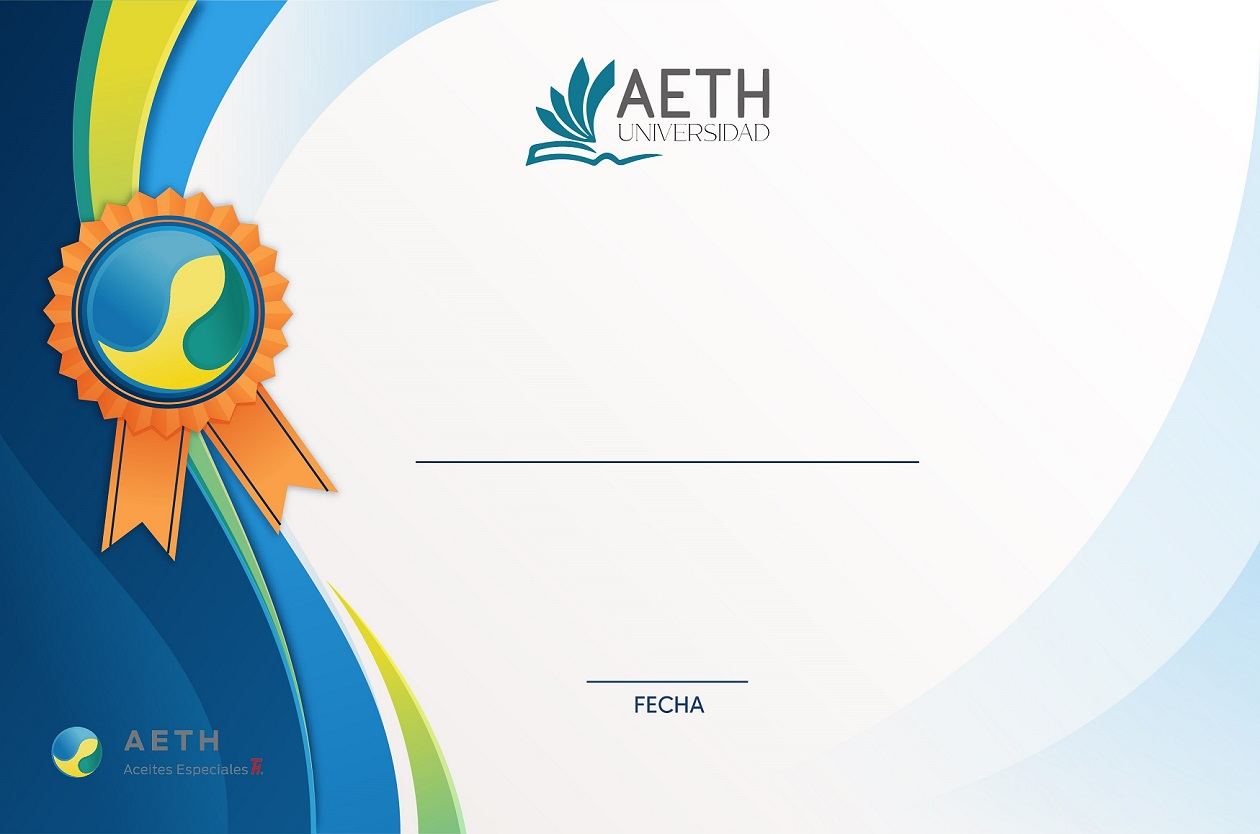
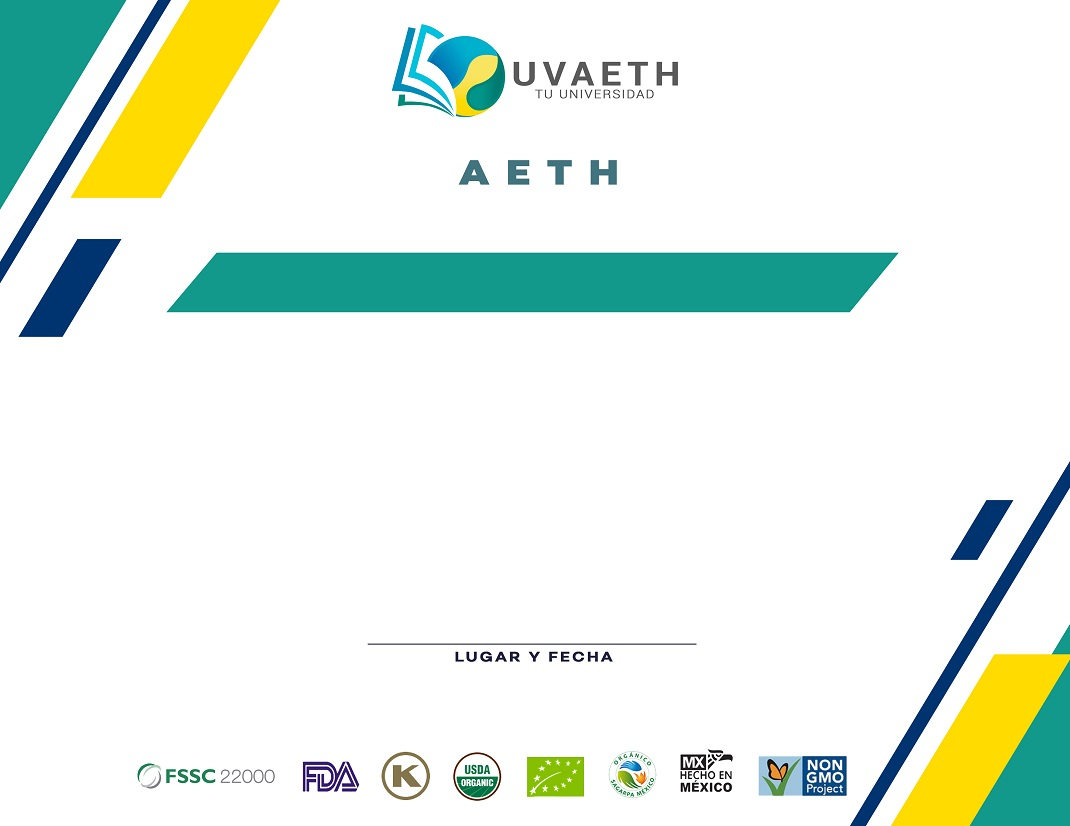
Cambios para relanzamiento

diff --git a/public/myapp/js/uni/exam/VueExam.js b/public/myapp/js/uni/exam/VueExam.js
@@ -108,7 +108,9 @@ var app = new Vue({
                     let route = "";
                     if (res.isApproved) {
                         if (res.oCompleted.course) {
-                            SGui.showSuccess("¡Felicidades!\n Aprobaste el curso.", "Ganaste: " + res.oCompleted.points + " puntos.", 'success', this.oData.sImageRoute);
+                            SGui.showSuccess("¡Felicidades!\n Aprobaste el curso.",
+                                res.oCompleted.has_points ? ("Ganaste: " + res.oCompleted.points + " puntos.") : "",
+                                'success', this.oData.sImageRoute);
                         } else {
                             SGui.showSuccess("¡Felicidades!\n Aprobaste.", "Calificación: " + res.grade, 'success', this.oData.sImageRoute);
                         }

diff --git a/public/myapp/css/certificates/certificate.css b/public/myapp/css/certificates/certificate.css
@@ -1,5 +1,7 @@
 body {
     background-image: url('img/background.jpg');
+    font-family: Century Gothic, CenturyGothic, AppleGothic, sans-serif;
+    font: 12px/1.4em "Century Gothic", "AppleGothic", sans-serif;
     /* height: 50%; */
     /* You must set a specified height */
     /* background-position: center; */
@@ -12,5 +14,21 @@ body {
 
 .alg-center {
     text-align: center;
-    margin-left: 30%;
+    /* margin-left: 5%; */
+}
+
+.big-with-back {
+    font-size: 55px;
+    color: #fff;
+    text-shadow: 0 0 10px #000;
+    margin-top: 42px;
+    margin-bottom: 20px;
+}
+
+.text-blueblack {
+    color: #0465B2;
+}
+
+.text-green {
+    color: #12988B;
 }

diff --git a/resources/views/uni/courses/course.blade.php b/resources/views/uni/courses/course.blade.php
@@ -43,40 +43,43 @@
                     </div>
                     <div class="row" style="background-color: #1173B0; border-radius: 15%">
                         <div class="col-4" style="text-align: center">
-                            <i class='bx bxs-graduation bx-flashing'></i>
+                            <i class='bx bxs-graduation'></i>
                         </div>
                         <div class="col-8">
                             <b>80 Calificación mín.</b>
                         </div>
                     </div>
-                    <div class="row" style="background-color: #1173B0; border-radius: 15%">
-                        <div class="col-4" style="text-align: center">
-                            <i class='bx bxs-coin bx-flashing'></i>
+                    @if ($oCourse->has_points)
+                        <div class="row" style="background-color: #1173B0; border-radius: 15%">
+                            <div class="col-4" style="text-align: center">
+                                <i class='bx bxs-coin'></i>
+                            </div>
+                            <div class="col-8">
+                                <b>Puedes ganar {{ $oCourse->university_points }} puntos universitarios</b>
+                            </div>
                         </div>
-                        <div class="col-8">
-                            <b>Puedes ganar {{ $oCourse->university_points }} puntos universitarios</b>
-                        </div>
-                    </div>
+                    @endif
                     @if ($aGrade[0])
                         <br>
-                        <a href="{{ route('certificate', [config('csys.elem_type.COURSE'), $oCourse->id_course, $oCourse->id_assignment]) }}" target="_blank">
-                            <div class="row" style="background-color: #F3D62D; color: black; border-radius: 15%">
-                                <div class="col-4" style="text-align: center">
-                                    <br>
-                                    <i class='bx bxs-file-doc bx-md bx-flashing'></i>
+                        @if ($oCourse->has_document)
+                            <a href="{{ route('certificate', [config('csys.elem_type.COURSE'), $oCourse->id_course, $oCourse->id_assignment]) }}" target="_blank">
+                                <div class="row" style="background-color: #F3D62D; color: black; border-radius: 15%">
+                                    <div class="col-4" style="text-align: center">
+                                        <i class='bx bxs-file-doc bx-md bx-flashing'></i>
+                                    </div>
+                                    <div class="col-8">
+                                        <b>¡Aprobaste el curso!</b>
+                                        <p>Descarga tu constancia</p>
+                                    </div>
                                 </div>
-                                <div class="col-8">
-                                    <b>¡Aprobaste el curso!</b>
-                                    <p>Descarga tu constancia</p>
-                                </div>
-                            </div>
-                        </a>
+                            </a>
+                        @endif
                         @if ($enableReview)
                             <br>
                             <div class="row align-items-center">
                                 <div class="col-12">
                                     <button type="button" style="width: 100%" class="btn btn-info" data-bs-toggle="modal" data-bs-target="#reviewsModal">
-                                        Evalúa el curso<span><i class='bx bxs-message-rounded-dots'></i></span>
+                                        Evalúa el curso<span><i class='bx bxs-message-rounded-dots bx-sm bx-flashing'></i></span>
                                     </button>
                                 </div>
                             </div>

diff --git a/app/Menu/Menu.php b/app/Menu/Menu.php
@@ -18,7 +18,7 @@ class Menu {
                     (object) ['route' => route('kardex.index'), 'icon' => 'bx bxs-graduation', 'name' => 'Mi avance'],
                     (object) ['route' => route('areas.index'), 'icon' => 'bx bx-library', 'name' => 'Mis competencias'],
                     (object) ['route' => route('kardex.head'), 'icon' => 'bx bxs-school', 'name' => 'Avance general'],
-                    (object) ['route' => route('shop'), 'icon' => 'bx bxs-store', 'name' => 'Tienda'],
+                    env('IS_STORE_ENABLED') ? ((object) ['route' => route('shop'), 'icon' => 'bx bxs-store', 'name' => 'Tienda']) : null,
                 ];
                 break;
 
@@ -48,7 +48,7 @@ class Menu {
                     (object) ['route' => route('assignments.index'), 'icon' => 'bx bxs-user-detail', 'name' => 'Asignar competencias'],
                     (object) ['route' => route('assignments.scheduled.index'), 'icon' => 'bx bxs-calendar-event', 'name' => 'Competencias programadas'],
                     (object) ['route' => route('kardex.head'), 'icon' => 'bx bxs-school', 'name' => 'Avance general'],
-                    (object) ['route' => route('shop'), 'icon' => 'bx bxs-store', 'name' => 'Tienda'],
+                    env('IS_STORE_ENABLED') ? ((object) ['route' => route('shop'), 'icon' => 'bx bxs-store', 'name' => 'Tienda']) : null,
                     (object) ['route' => route('gifts.index'), 'icon' => 'bx bxs-cabinet', 'name' => 'Gestión premios'],
                     (object) ['route' => route('points.index'), 'icon' => 'bx bx-money', 'name' => 'Ctrl Puntos'],
                     (object) ['route' => route('carousel.index'), 'icon' => 'bx bx-images', 'name' => 'Carrusel'],
@@ -66,7 +66,7 @@ class Menu {
                     (object) ['route' => route('assignments.index'), 'icon' => 'bx bxs-user-detail', 'name' => 'Asignar competencias'],
                     (object) ['route' => route('assignments.scheduled.index'), 'icon' => 'bx bxs-calendar-event', 'name' => 'Competencias programadas'],
                     (object) ['route' => route('kardex.head'), 'icon' => 'bx bxs-school', 'name' => 'Avance general'],
-                    (object) ['route' => route('shop'), 'icon' => 'bx bxs-store', 'name' => 'Tienda'],
+                    env('IS_STORE_ENABLED') ? ((object) ['route' => route('shop'), 'icon' => 'bx bxs-store', 'name' => 'Tienda']) : null,
                     (object) ['route' => route('gifts.index'), 'icon' => 'bx bxs-cabinet', 'name' => 'Gestión premios'],
                     (object) ['route' => route('points.index'), 'icon' => 'bx bx-money', 'name' => 'Ctrl Puntos'],
                     (object) ['route' => route('carousel.index'), 'icon' => 'bx bx-images', 'name' => 'Carrusel'],
@@ -81,6 +81,9 @@ class Menu {
 
         $sMenu = "";
         foreach ($lMenus as $menu) {
+            if ($menu == null) {
+                continue;
+            }
             $sMenu = $sMenu.Menu::createMenuElement($menu->route, $menu->icon, $menu->name);
         }
 

diff --git a/app/Http/Controllers/Uni/CertificatesController.php b/app/Http/Controllers/Uni/CertificatesController.php
@@ -76,27 +76,27 @@ class CertificatesController extends Controller
         $mpdf->SetTitle(env('APP_NAME', false));
         $mpdf->WriteHTML($stylesheet, \Mpdf\HTMLParserMode::HEADER_CSS);
         $mpdf->WriteHTML('<div style="height: 130px"></div>');
-        $mpdf->WriteHTML('<h4 class="alg-center">Otorga '.$art.' presente:</h4>');
+        $mpdf->WriteHTML('<h4 style="font-size: 20px;" class="alg-center text-blueblack">Otorga '.$art.' presente:</h4>');
         // $mpdf->WriteHTML('<div style="height: 10px"></div>');
-        $mpdf->WriteHTML('<h1 style="font-size: 50px" class="alg-center">'.$sDocText.'</h1>');
-        $mpdf->WriteHTML('<h4 class="alg-center">a</h4>');
+        $mpdf->WriteHTML('<h1 class="alg-center big-with-back">'.$sDocText.'</h1>');
+        $mpdf->WriteHTML('<div style="height: 5px"></div>');
+        $mpdf->WriteHTML('<h4 style="font-size: 20px; margin-bottom: 10px;" class="alg-center text-blueblack">a</h4>');
 
         // $mpdf->WriteHTML('<div align="center"><img src="img/tron2.png" alt="AETH"><div>');
 
+        $mpdf->WriteHTML('<div style="height: 5px"></div>');
         $oStudent = User::find($student);
-        $mpdf->WriteHTML('<div style="height: 15px"></div>');
-        $body = '<h2 class="alg-center">'.$oStudent->full_name.'</h2>';
+        $body = '<h2 style="font-size: 35px;" class="alg-center text-green">'.$oStudent->full_name.'</h2>';
         $mpdf->WriteHTML($body);
         
         $mpdf->WriteHTML('<br>');
-        $mpdf->WriteHTML('<h4 class="alg-center">Por haber cursado el</h4>');
-        $mpdf->WriteHTML('<h4 class="alg-center">'.$sTypeText.'</h4>');
-        $mpdf->WriteHTML('<h3 class="alg-center">'.$title.'</h3>');
+        $mpdf->WriteHTML('<h4 style="font-size: 20px;" class="alg-center text-blueblack">Por haber cursado el '.$sTypeText.'</h4>');
+        $mpdf->WriteHTML('<h3 style="font-size: 40px;" class="alg-center text-blueblack">'.$title.'</h3>');
 
-        $mpdf->WriteHTML('<div style="height: 20px"></div>');
         $oDateIni = Carbon::parse($oAssignment->dt_assignment);
+        $oDateIni->locale();
         $oDateFin = Carbon::parse($oAssignment->dt_end);
-        $mpdf->WriteHTML('<h5 class="alg-center">'.$oDateIni->format('d-m-Y').' al '.$oDateFin->format('d-m-Y').'</h5>');
+        $mpdf->WriteHTML('<h5 style="font-size: 20px; margin-top: 60px" class="alg-center text-blueblack">Morelia Michoacán, '.$oDateIni->monthName.' '.$oDateIni->format('Y').'</h5>');
 
         $date = Carbon::now();
 
@@ -104,7 +104,7 @@ class CertificatesController extends Controller
 
         QrCode::size(50)->generate($key, 'img/j.png');
 
-        $qr = '<div style="position: absolute; left: 900; right: 0; top: 650; bottom: 0;">
+        $qr = '<div style="position: absolute; left: 50; right: 0; top: 600; bottom: 70;">
                     <img src="img/j.png" 
                         style="width: 90%; height: 90%; margin: 0;" />
                 </div>';

diff --git a/resources/views/mgr/courses/form.blade.php b/resources/views/mgr/courses/form.blade.php
@@ -4,7 +4,7 @@
     <input type="text" value="{{ old('course', $oCourse->course ?? '') }}" class="form-control" id="course" name="course">
 </div>
 <div class="row">
-    <div class="col-8">
+    <div class="col-4">
         <div class="mb-3">
             <label for="course_key" class="form-label">Clave del curso</label>
             <input type="text" value="{{ old('course_key', $oCourse->course_key ?? '') }}" class="form-control" id="course_key" name="course_key">
@@ -14,6 +14,24 @@
         <div class="mb-3">
             <label for="completion_days" class="form-label">Duración (días)</label>
             <input type="number" value="{{ old('completion_days', $oCourse->completion_days ?? '') }}" class="form-control" id="completion_days" name="completion_days">
+        </div>
+    </div>
+    <div class="col-2">
+        <br>
+        <div class="mb-3">
+            <label class="form-check-label">
+              <input type="checkbox" class="form-check-input" name="has_document"  {{ (isset($oCourse) && $oCourse->has_document) || !isset($oCourse) ? 'checked' : '' }}>
+                Genera constancia
+            </label>
+        </div>
+    </div>
+    <div class="col-2">
+        <br>
+        <div class="mb-3">
+            <label class="form-check-label">
+              <input type="checkbox" class="form-check-input" name="has_points" {{ (isset($oCourse) && $oCourse->has_points) || !isset($oCourse) ? 'checked' : '' }}>
+              Genera puntos
+            </label>
         </div>
     </div>
     <div class="col-2">

diff --git a/database/migrations/2022_03_29_111346_add_has_certandpoints_courses_table.php b/database/migrations/2022_03_29_111346_add_has_certandpoints_courses_table.php
@@ -1,0 +1,46 @@
+<?php
+
+use Illuminate\Support\Facades\Schema;
+use Illuminate\Database\Schema\Blueprint;
+use Illuminate\Database\Migrations\Migration;
+
+class AddHasCertandpointsCoursesTable extends Migration
+{
+    /**
+     * Run the migrations.
+     *
+     * @return void
+     */
+    public function up()
+    {
+        Schema::table('uni_courses', function (Blueprint $table) {
+            $table->boolean('has_points')->after('completion_days');
+            $table->boolean('has_document')->after('university_points')->default(true);
+        });
+        Schema::table('uni_modules', function (Blueprint $table) {
+            $table->boolean('has_document')->after('objectives')->default(true);
+        });
+        Schema::table('uni_knowledge_areas', function (Blueprint $table) {
+            $table->boolean('has_document')->after('objectives')->default(true);
+        });
+    }
+
+    /**
+     * Reverse the migrations.
+     *
+     * @return void
+     */
+    public function down()
+    {
+        Schema::table('uni_courses', function (Blueprint $table) {
+            $table->dropColumn('has_points');
+            $table->dropColumn('has_document');
+        });
+        Schema::table('uni_modules', function (Blueprint $table) {
+            $table->dropColumn('has_document');
+        });
+        Schema::table('uni_knowledge_areas', function (Blueprint $table) {
+            $table->dropColumn('has_document');
+        });
+    }
+}

diff --git a/app/Http/Controllers/Mgr/CoursesController.php b/app/Http/Controllers/Mgr/CoursesController.php
@@ -100,9 +100,11 @@ class CoursesController extends Controller
             $oCourse->course_key = $request->course_key;
             $oCourse->hash_id = hash('ripemd160', $oCourse->course);
             $oCourse->completion_days = $request->completion_days;
+            $oCourse->has_points = isset($request->has_points);
             $oCourse->university_points = $request->university_points;
             $oCourse->description = $request->description;
             $oCourse->objectives = $request->objectives;
+            $oCourse->has_document = isset($request->has_document);
             $oCourse->is_deleted = 0;
             $oCourse->module_id = $request->module_id;
             $oCourse->elem_status_id = config('csys.elem_status.NEW');
@@ -185,6 +187,7 @@ class CoursesController extends Controller
             $oCourse->university_points = $request->university_points;
             $oCourse->description = $request->description;
             $oCourse->objectives = $request->objectives;
+            $oCourse->has_document = isset($request->has_document);
             $oCourse->elem_status_id = config('csys.elem_status.NEW');
             $oCourse->sequence_id = $request->sequence;
             $oCourse->created_by_id = \Auth::id();

diff --git a/resources/views/layouts/unifooter.blade.php b/resources/views/layouts/unifooter.blade.php
@@ -32,14 +32,17 @@
         <div class="col-md-3 footer-ns animated fadeInRight">
             <h4>¿Preguntas?</h4>
             <p>Envia tu pregunta y te contestaremos a la brevedad</p>
-            <p>
-                <div class="input-group">
-                  <input type="text" class="form-control" placeholder="Search for...">
-                  <span class="input-group-btn">
-                    <button class="btn btn-default" type="button"></button>
-                  </span>
-                </div><!-- /input-group -->
-             </p>
+            <form action="" method="post">
+                <p>
+                    <div class="input-group">
+                        <textarea style="font-size: 80%;" class="form-control" name="mail_review" rows="4" cols="50">Si tienes alguna duda, sugerencia o comentario, escríbenos.</textarea>
+                    <span class="input-group-btn">
+                        <button class="btn btn-default" type="button"></button>
+                    </span>
+                    </div><!-- /input-group -->
+                </p>
+                <button type="submit" class="btn btn-primary">Enviar</button>
+            </form>
         </div>
     </div>
     <div class="row">

diff --git a/app/Http/Controllers/Uni/TakesController.php b/app/Http/Controllers/Uni/TakesController.php
@@ -341,7 +341,8 @@ class TakesController extends Controller
                 $oCourse = Course::find($oTopic->course_id);
 
                 $oCompleted->course = true;
-                $oCompleted->points = $oCourse->university_points;
+                $oCompleted->has_points = $oCourse->has_points;
+                $oCompleted->points = $oCourse->has_points ? $oCourse->university_points : 0;
 
                 $moduleCompleted = $this->verifyModule($oCourse->module_id, \Auth::id(), $oTakeSubtopic->grouper, $oTakeSubtopic->assignment_id, $oTakeSubtopic->min_grade);
 
@@ -351,7 +352,7 @@ class TakesController extends Controller
                     $oModule = Module::find($oCourse->module_id);
     
                     $areaCompleted = $this->verifyArea($oModule->knowledge_area_id, \Auth::id(), $oTakeSubtopic->grouper, $oTakeSubtopic->assignment_id, $oTakeSubtopic->min_grade);
-                    $oCompleted->course = $areaCompleted;
+                    $oCompleted->area = $areaCompleted;
                 }
             }
         }

diff --git a/app/Utils/TakeUtils.php b/app/Utils/TakeUtils.php
@@ -20,12 +20,14 @@ class TakeUtils {
 
         $lCourses =  \DB::table('uni_taken_controls AS tc')
                             ->join('uni_courses AS co', 'tc.course_n_id', '=', 'co.id_course')
+                            ->join('uni_assignments AS a', 'tc.assignment_id', '=', 'a.id_assignment')
                             ->where('tc.student_id', $student)
                             ->where(function ($query) {
                                 $query->where('tc.status_id', config('csys.take_status.CUR'))
                                     ->orWhere('tc.status_id', config('csys.take_status.EVA'));
                             })
                             ->where('tc.element_type_id', config('csys.elem_type.COURSE'))
+                            ->whereRaw('NOW() BETWEEN a.dt_assignment AND a.dt_end')
                             ->where('tc.is_deleted', false)
                             ->where('co.is_deleted', false)
                             ->select('tc.grouper',

diff --git a/app/Http/Controllers/Uni/UniversityController.php b/app/Http/Controllers/Uni/UniversityController.php
@@ -77,6 +77,8 @@ class UniversityController extends Controller
         $oModule = Module::find($module);
 
         foreach ($lCourses as $course) {
+            $course->completed_percent = TakeUtils::getCoursePercentCompleted($course->id_course, \Auth::id(), $course->id_assignment);
+
             $oContent = \DB::table('uni_contents_vs_elements AS ce')
                             ->join('uni_edu_contents AS c', 'ce.content_id', '=', 'c.id_content')
                             ->where('element_type_id', config('csys.elem_type.COURSE'))
@@ -94,8 +96,6 @@ class UniversityController extends Controller
             
             $oContent->view_path = $path;
             $course->cover = $oContent;
-
-            $course->completed_percent = TakeUtils::getCoursePercentCompleted($course->id_course, \Auth::id(), $course->id_assignment);
         }
 
         return view('uni.courses.index')->with('lCourses', $lCourses)
